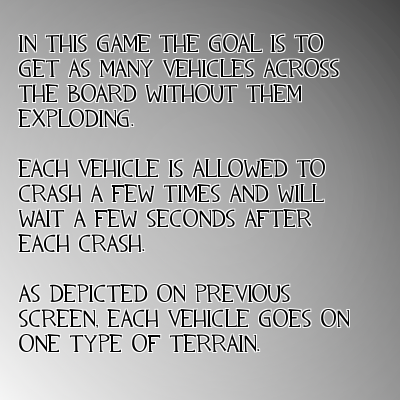
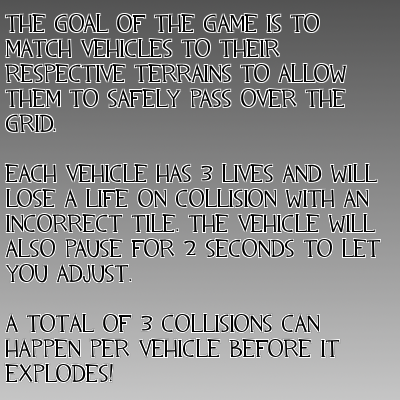
fixed up the tutorial

diff --git a/www/src/Game.js b/www/src/Game.js
@@ -691,7 +691,7 @@ TMT.Game.prototype = {
 	overlayclickevent: function () {
 		rules.kill();
 		if(evthap === 0) {
-			rules2 = this.game.add.sprite(this.game.world.width/2, this.game.world.height/2, 'rules2');
+			rules2 = this.game.add.sprite(this.game.world.width/2, this.game.world.height * 0.485, 'rules');
 			rules2.anchor.setTo(0.5, 0.5);
 			rules2.inputEnabled = true;
 			this.game.input.onDown.add(this.overlayclickeventtwo, this);
@@ -707,7 +707,7 @@ TMT.Game.prototype = {
 	overlayclickeventtwo: function () {
 		rules2.kill();
 		if(evthap === 1) {
-			rules3 = this.game.add.sprite(this.game.world.width/2, this.game.world.height/2, 'rules3');
+			rules3 = this.game.add.sprite(this.game.world.width * 0.5, this.game.world.height * 0.5, 'rules3');
 			rules3.anchor.setTo(0.5, 0.5);
 			rules3.inputEnabled = true;
 			this.game.input.onDown.add(this.overlayclickeventthree, this);
@@ -730,7 +730,7 @@ TMT.Game.prototype = {
 		if (level === 0) {
 			stoptime = true;
 			this.gamepause();
-			rules = this.game.add.sprite(this.game.world.width / 2, this.game.world.height / 2, 'rules');
+			rules = this.game.add.sprite(this.game.world.width / 2, this.game.world.height * 0.485, 'rules2');
 			rules.anchor.setTo(0.5, 0.5);
 			rules.inputEnabled = true;
 			this.game.input.onDown.add(this.overlayclickevent, this);
